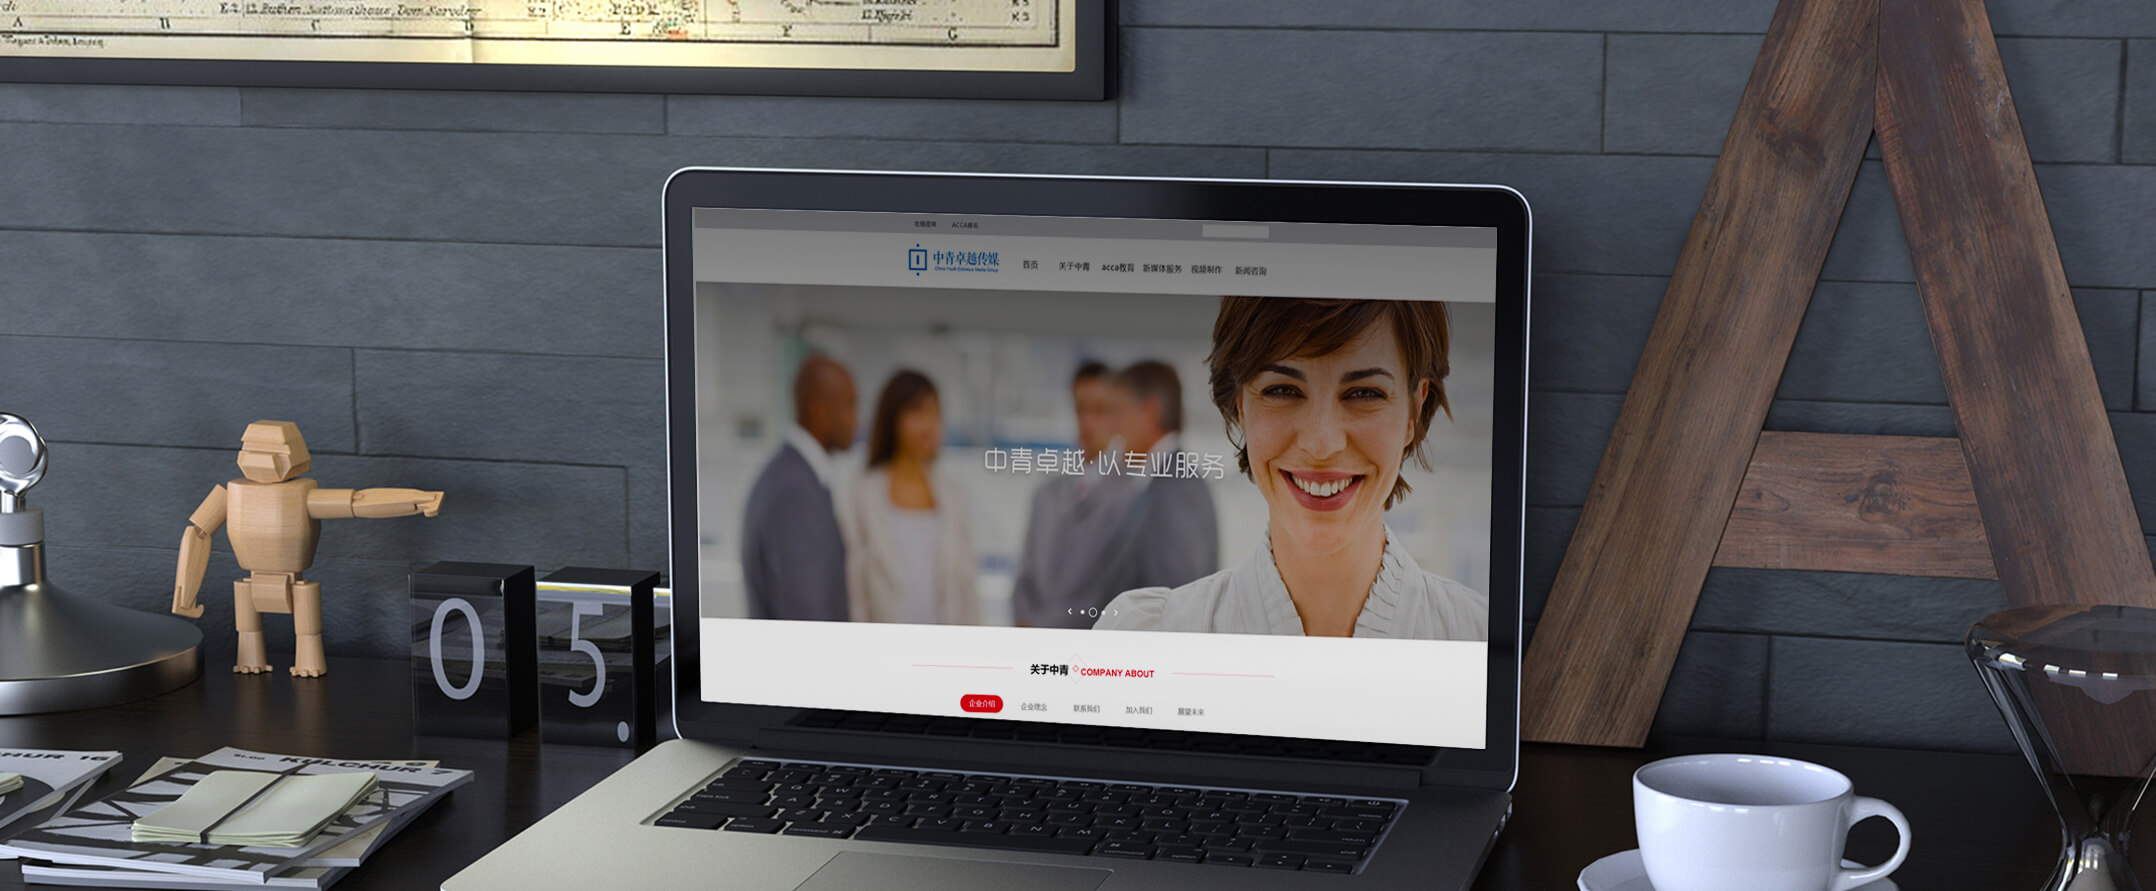
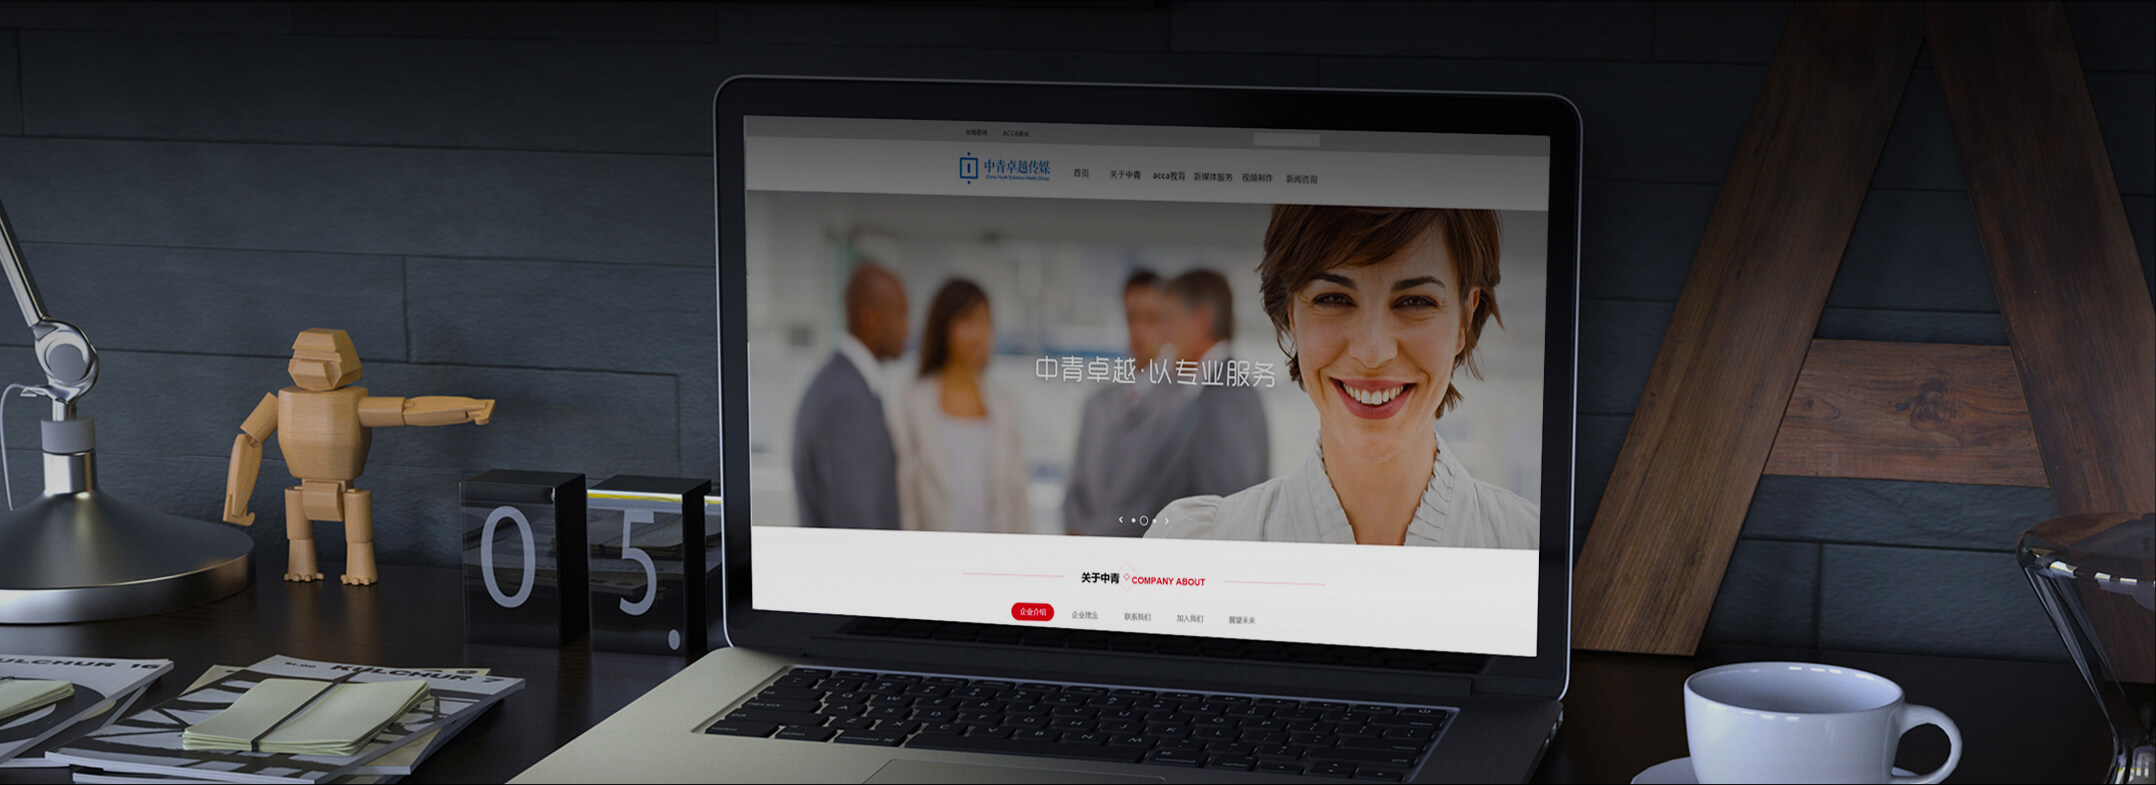
岩睿官网主题--banner图片和高度调整

diff --git a/style.css b/style.css
@@ -55,7 +55,7 @@ body {
 
 .banner {
   width: 100%;
-  height: 890px; }
+  height: 785px; }
 
 .pagination {
   position: absolute;

diff --git a/common.scss b/common.scss
@@ -31,7 +31,7 @@ body{
 }
 .banner {
   width: 100%;
-  height: 890px;
+  height: 785px;
 }
 
 .pagination {

diff --git a/header.php b/header.php
@@ -14,6 +14,7 @@
 <link rel="pingback" href="<?php bloginfo('pingback_url'); ?>" />
 <script src="<?php echo get_bloginfo('template_url') ?>/js/jquery-1.10.1.min.js"></script>
 <script src="<?php echo get_bloginfo('template_url') ?>/js/idangerous.swiper2.7.6.min.js"></script>
+<link rel="shortcut icon" href="<?php echo get_bloginfo('template_url'); ?>/favicon.ico" >
 </head>
 <body>
 <div id="wrapper">
